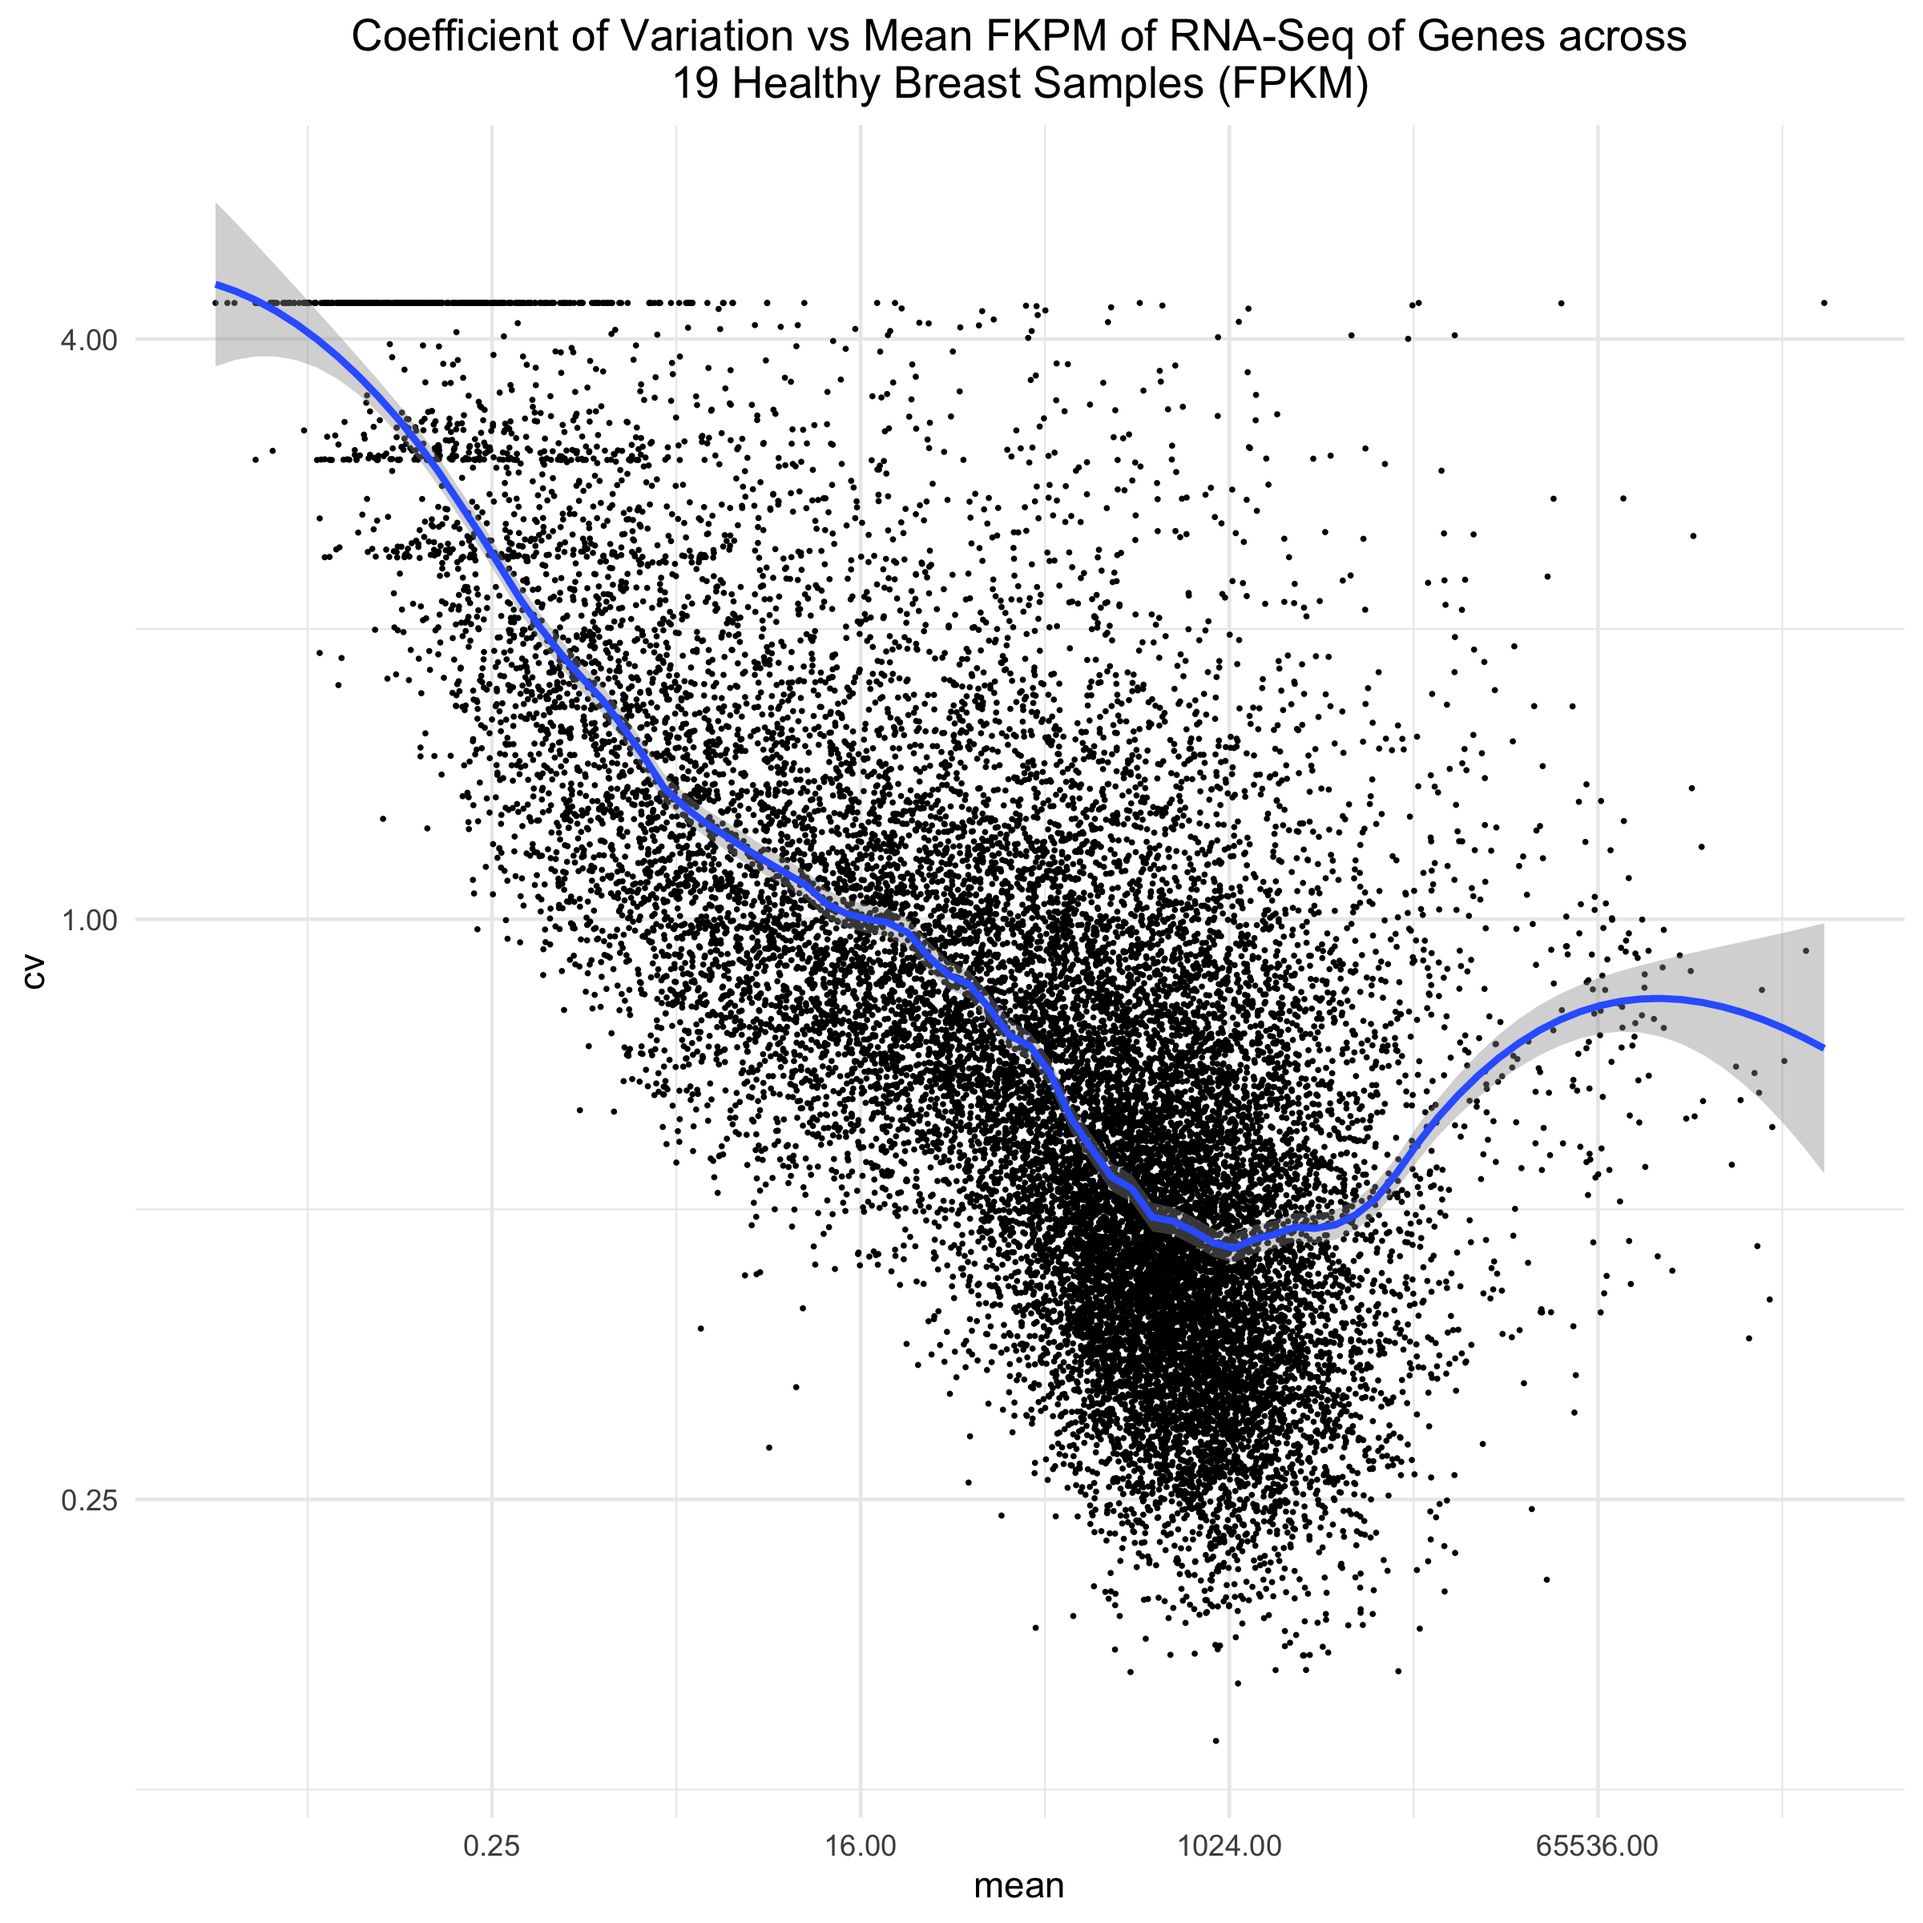
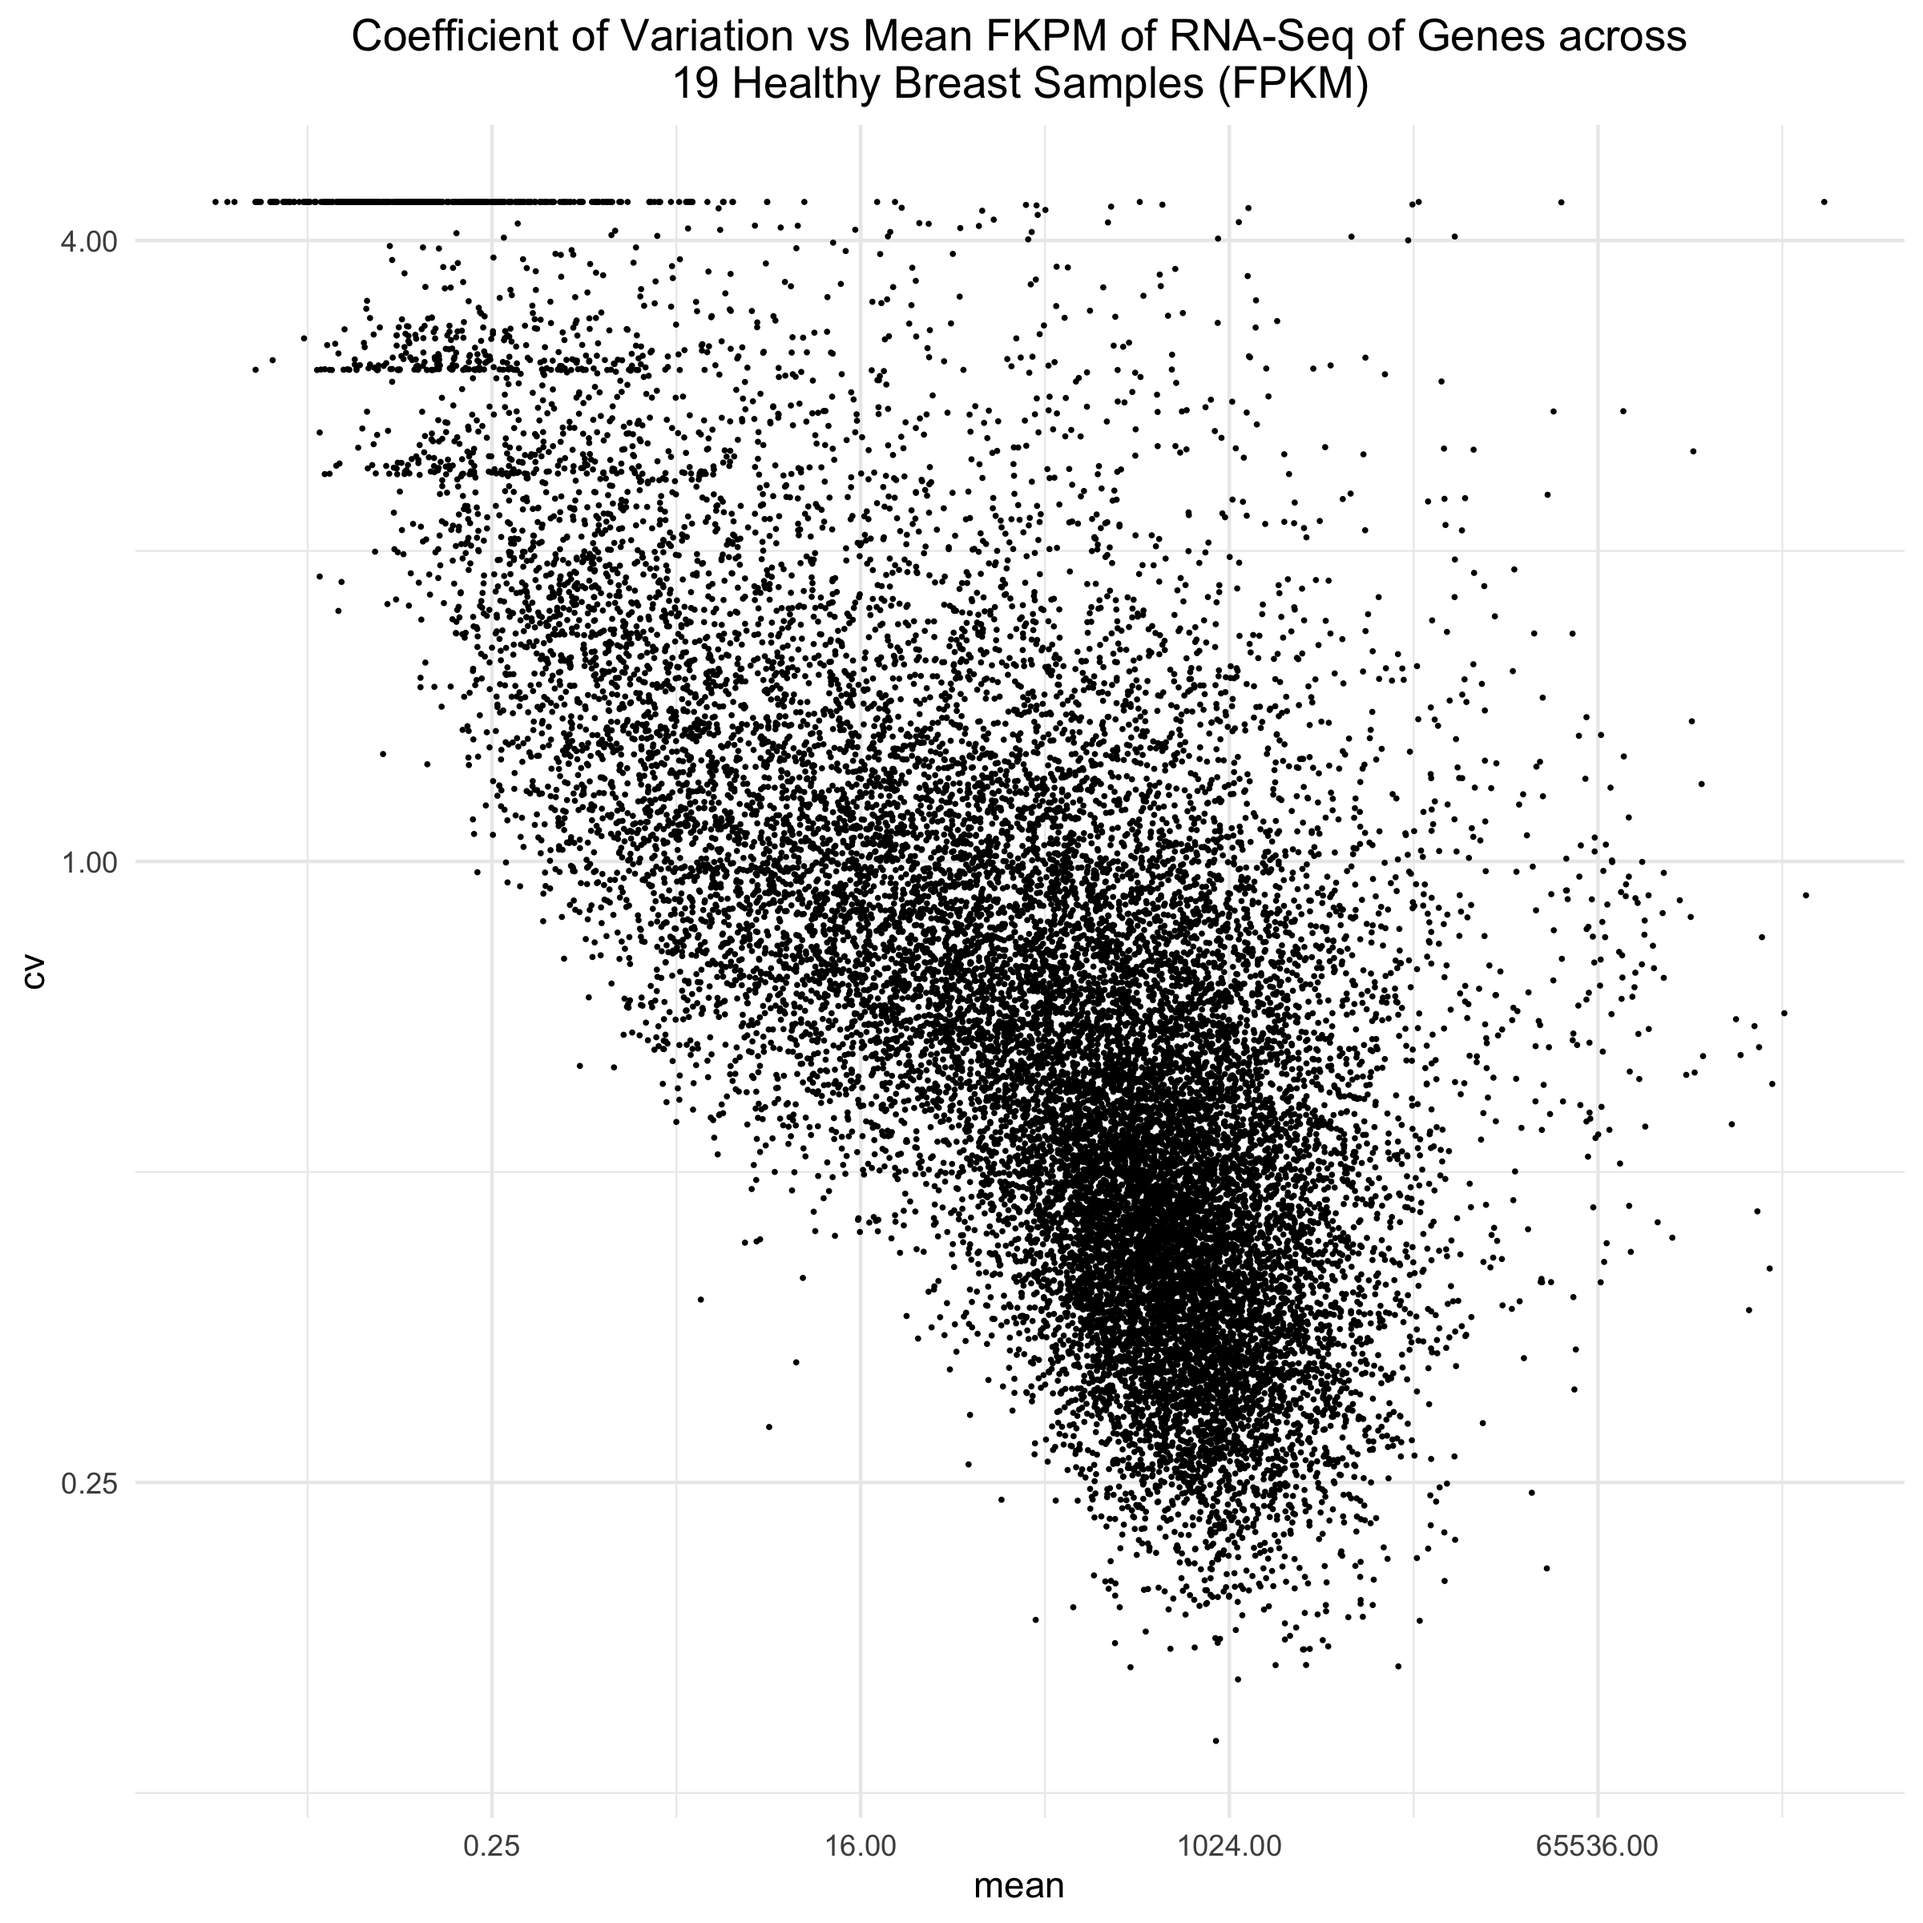
Transferred to FDR v 1 new corrections

diff --git a/FDR_and_Replicates.md b/FDR_and_Replicates.md
@@ -146,11 +146,13 @@ In order to facilitate obtaining RNA-Seq data samples without RNA degradation or
 
 #### Downloading the Wang Datasets
 
-The relevant file of breast cancer data was found at <https://figshare.com/articles/Data_record_3/5330593>. This "Data Record 3" refers to samples that 1) had "Expected Counts" from the RSEM algorithm, 2) Uniform Processing yielding FPKM from RSEM's output and quantile normalized, and 3) batch-effect-corrected using the ComBat software. The BRCA data file is called "brca-rsem-fpkm-tcga-t.txt.gz" and was 35.11 MB compressed. Once decompressed, it yielded a single file called "brcarsemfpkmtcgat.txt".
+The relevant directory of breast cancer data was found at <https://figshare.com/articles/Data_record_3/5330593>. This "Data Record 3" refers to samples that 1) had "Expected Counts" from the RSEM algorithm, 2) Uniform Processing yielding FPKM from RSEM's output and quantile normalized, and 3) batch-effect-corrected using the ComBat software.
 
-The relevant file of healthy breast samples was found at the same figshare.com link above and the file is called "breast-rsem-fpkm-gtex.txt.gz" is 3.52 MB compressed. Once decompressed, it yielded a single file called "breastrsemfpkmgtex.txt".
+-   The TCGA data file is called *brca-rsem-fpkm-tcga-t.txt.gz* and is 35.11 MB compressed. Once decompressed, it yielded a single file called *brcarsemfpkmtcgat.txt*. All 982 samples from this file are tissue type = 01, which is "tumor", in this case, "breast tumor".
 
--   There are TCGA samples that are actually healthy. I still need to go back and review the 3rd breast sample from the figshare.com directory.\*
+-   A second TCGA file is called *brca-rsem-fpkm-tcga.txt.gz* and is 4.24 MB compressed. Once decompressed, it yielded a single file called *brcarsemfpkmtcgat.txt*, which is almost the same name as the first file. All 110 samples from this file are tissue type = 11, which is "Solid (breast) tissue normal".
+
+-   The GTEx file of healthy breast samples was found at the same figshare.com link above and the file is called *breast-rsem-fpkm-gtex.txt.gz* is 3.52 MB compressed. Once decompressed, it yielded a single file called *breastrsemfpkmgtex.txt*, and contained 89 samples of "Solid (breast) tissue normal".
 
 #### Subsetting the Wang Datasets
 
@@ -381,14 +383,6 @@ colnames(dfBrca19) "TCGA.5T.A9QA.01A.11R.A41B.07" Infiltrating duct mixed with o
 \[19\] "TCGA.B6.A1KN.01A.11R.A13Q.07"
 "TCGA.BH.A0B8.01A.21R.A056.07"
 
-*This data can be accessed via Bioconductor using the GenomicDataCommons package*
-
-#### Might be more interesting to plot 30 Histograms together
-
-#### I should model genes that look like they change across studies
-
-#### I should confirm that all TCGA samples are indeed cancer samples.
-
 Modeling Realistic Data
 -----------------------
 
@@ -404,11 +398,14 @@ ggplot(dfHardy0, aes(x=mean, y=cv)) +
    # xlim(c(0.01, 420000)) + ylim(c(0.01, 420000)) +
    scale_x_continuous(trans = 'log2') + #, limits=c(0.01, 420000000)) +
    scale_y_continuous(trans = 'log2') + #, limits=c(0.01, 420000000)) +
-   labs(title="Coefficient of Variation vs Mean FKPM of RNA-Seq of Genes across\n19 Healthy Breast Samples (FPKM)") +
-   geom_smooth(method="loess", span=0.1)
+   labs(title="Coefficient of Variation vs Mean FKPM of RNA-Seq of Genes across\n19 Healthy Breast Samples (FPKM)") 
 ```
 
 <img src="FDR_and_Replicates_files/figure-markdown_github/unnamed-chunk-20-1.png" width="90%" height="90%" style="display: block; margin: auto;" />
+
+``` r
+   # geom_smooth(method="loess", span=0.1)
+```
 
 ### Interpretation
 
